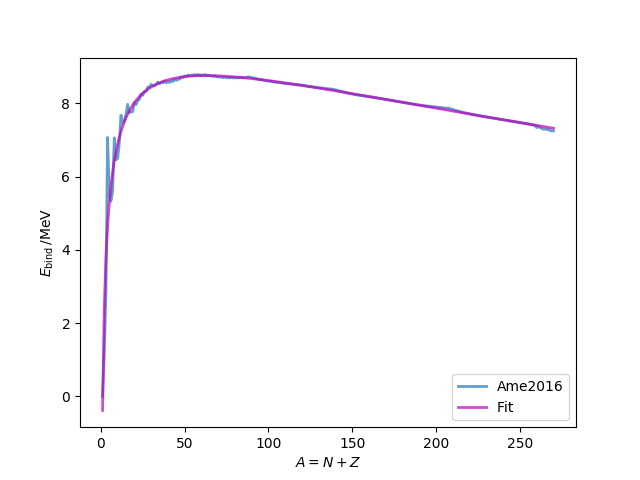
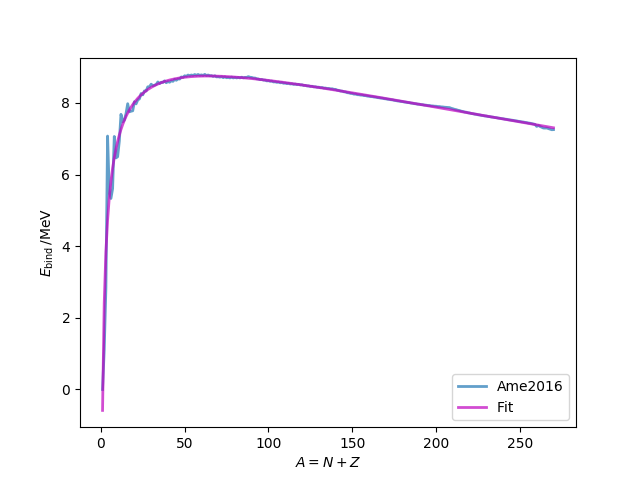
small change, not finished

diff --git a/doc/Programs/MassEval.py b/doc/Programs/MassEval.py
@@ -29,7 +29,7 @@ infile = open(data_path("MassEval2016.dat"),'r')
 import numpy as np
 import pandas as pd
 import matplotlib.pyplot as plt
-from scipy.optimize import curve_fit
+
 
 """
 This is taken from the data file of the mass 2016 evaluation.
@@ -68,8 +68,9 @@ ProtonNumber = maxavEbind['Z']
 NeutronNumber = maxavEbind['N']
 Energies = maxavEbind['avEbind']
 
-DesignMatrix = np.zeros((4+1,len(MassNumber)))
-DesignMatrix[4,:] = MassNumber**(-1.0)
+DesignMatrix = np.zeros((4,len(MassNumber)))
+#DesignMatrix[4,:] = MassNumber**(1.0/3.0)
+#DesignMatrix[4,:] = MassNumber**(-1.0)
 DesignMatrix[3,:] = MassNumber**(-1.0/3.0)
 DesignMatrix[2,:] = MassNumber**(2.0/3.0)
 DesignMatrix[1,:] = MassNumber
